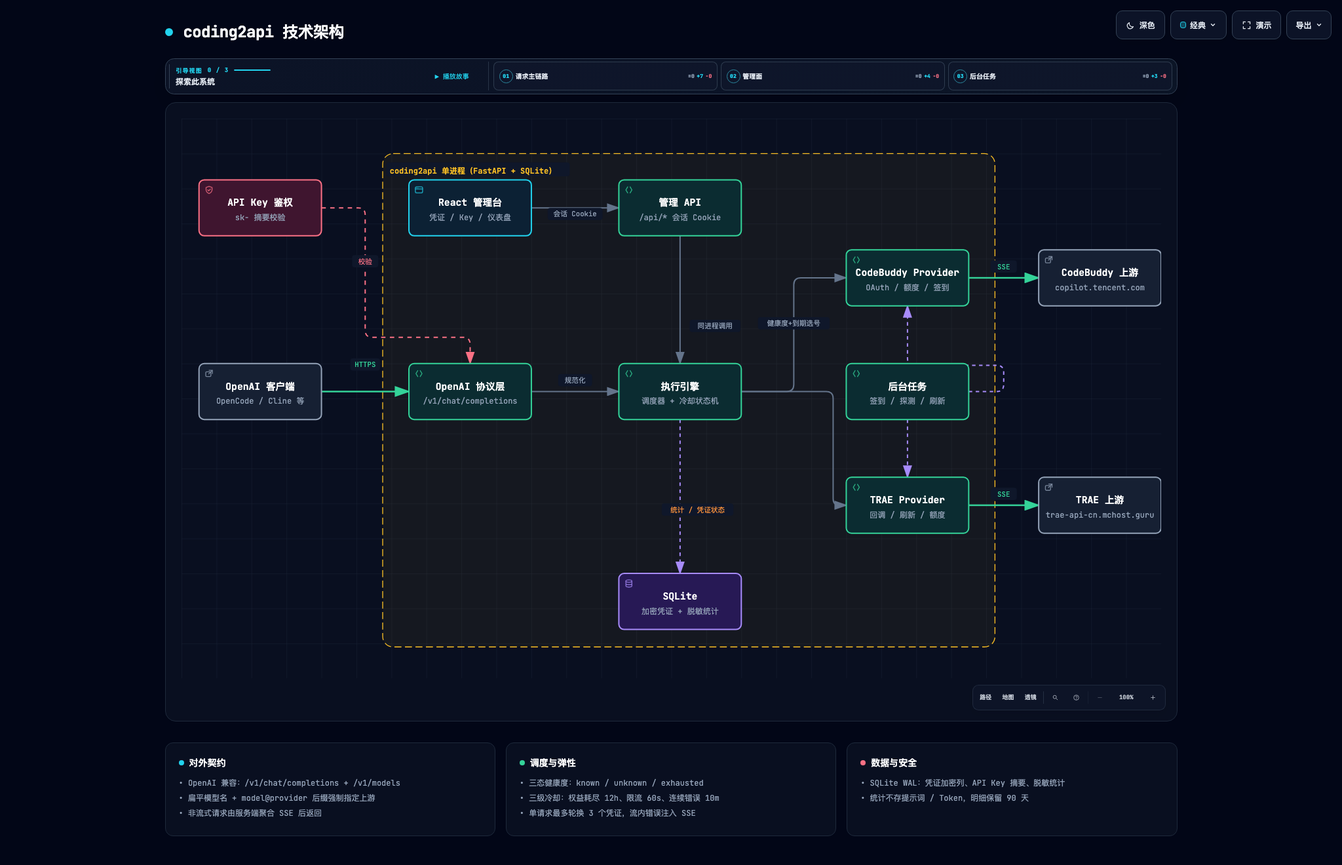
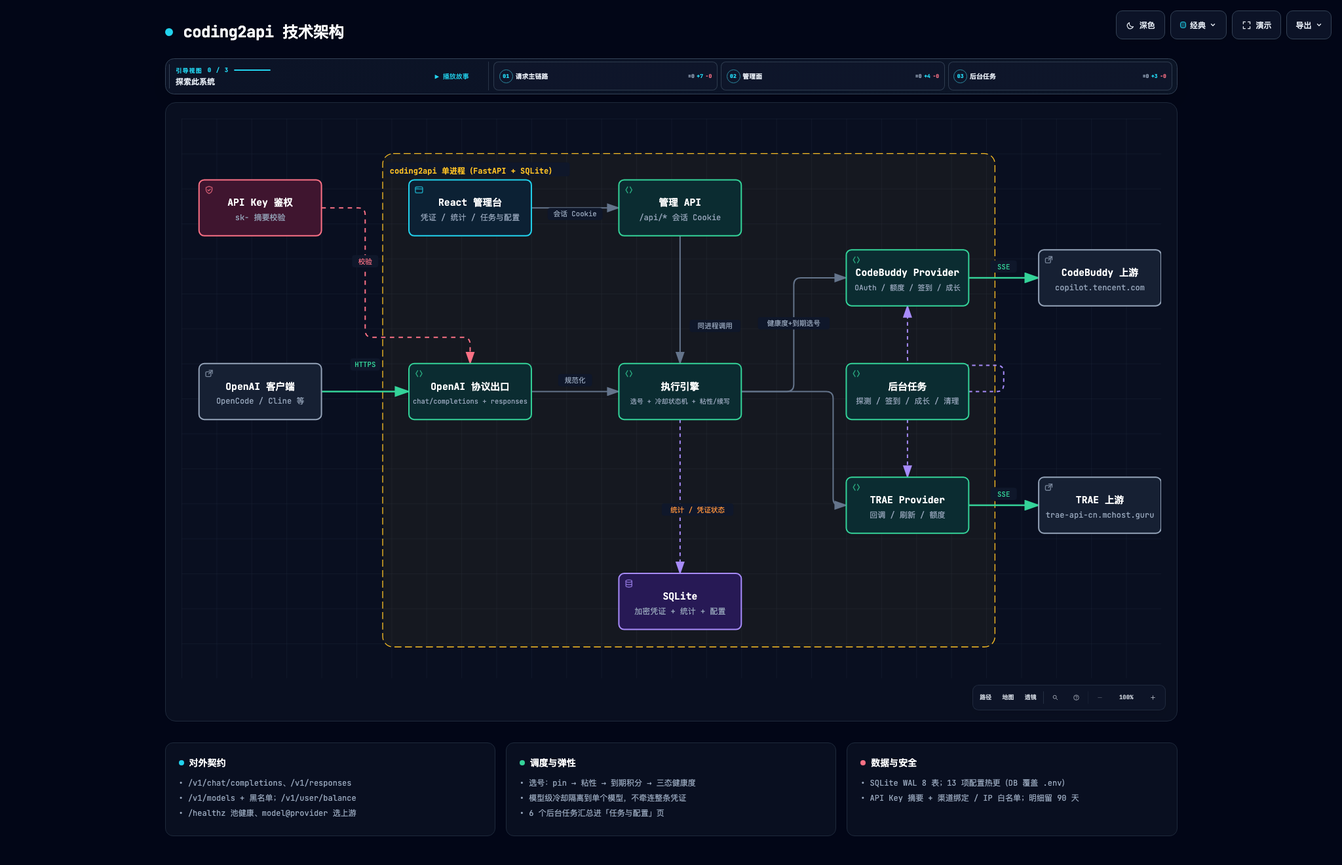
docs(diagram): 架构图重生成，补 B1–B4 能力（协议出口 / 调度 / 后台任务 / 表数量）
图停在 f6045c8（余额端点那次），之后 B1–B4 全部没进图，属实质漂移。
按实际代码重写 diagrams/architecture.json 后用 archify deliver 重出 HTML：

- 协议出口：`OpenAI 协议层 /v1/chat/completions` → `OpenAI 协议出口
  chat/completions + responses`（补 B2.1 Responses 出口）
- 执行引擎：`调度器 + 冷却状态机` → `选号 + 冷却状态机 + 粘性/续写`
  （补 B1.4 截断续写、B1.5 会话粘性）
- 后台任务：`签到 / 探测 / 刷新` → `探测 / 签到 / 成长 / 清理`
  （补成长中心与明细清理；活跃上报在视图说明里点名）
- CodeBuddy Provider 补「成长」；管理台副标 `凭证 / Key / 仪表盘` →
  `凭证 / 统计 / 任务与配置`（补 B3 统计与 B4 合并页）
- SQLite 副标补「配置」，tag `WAL` → `WAL · 8 表`（B3.2 起 8 张表）
- 后台任务引导视图说明补 6 类任务与运行态去向
- 复用原 3 张卡片（曾试 4 张，1440×900 视口因卡片换行溢出 12px，
  回退为 3 张并改写条目），卡片内容改为当前事实：Responses / balance /
  healthz 出口、pin→粘性→到期积分→三态健康度、模型级冷却隔离、
  6 任务汇总、8 表、13 项配置热更、渠道绑定 / IP 白名单

校验（archify 2.17）：validate 9/9 checks、composition pass（0 error 0 warning）；
deliver ok（spec sha256 f0…、artifact 814KB）；visual-check 1440×900 / 1600×1000 /
1920×1080 / 2048×1320 四个视口 scrollHeight == innerHeight，无溢出。
浅色与深色截图人工过目，无孤字换行、无重叠。

后端门槛：ruff + pytest 100%（1329 passed）。

diff --git a/diagrams/coding2api-architecture.html b/diagrams/coding2api-architecture.html
@@ -5085,7 +5085,7 @@ OTHER DEALINGS IN THE FONT SOFTWARE.
       </div>
     </div>
 
-    <script id="archify-guided-views-data" type="application/json">[{"id":"request-path","label":"请求主链路","focus":["clients","openai","engine","cb","trae","cb-up","trae-up"],"note":"客户端请求经协议层规范化，由执行引擎选号后流式转发到上游。"},{"id":"admin-plane","label":"管理面","focus":["admin-ui","admin-api","engine","db"],"note":"React 管理台经管理 API 同进程调用引擎，状态落 SQLite。"},{"id":"background","label":"后台任务","focus":["bg","cb","trae"],"note":"签到、额度探测与 token 预刷新经 provider 客户端触达上游。"}]</script>
+    <script id="archify-guided-views-data" type="application/json">[{"id":"request-path","label":"请求主链路","focus":["clients","openai","engine","cb","trae","cb-up","trae-up"],"note":"客户端请求经协议层规范化，由执行引擎选号后流式转发到上游。"},{"id":"admin-plane","label":"管理面","focus":["admin-ui","admin-api","engine","db"],"note":"React 管理台经管理 API 同进程调用引擎，状态落 SQLite。"},{"id":"background","label":"后台任务","focus":["bg","cb","trae"],"note":"签到、额度探测、token 预刷新、成长中心、活跃上报与明细清理经 provider 客户端触达上游，运行态汇总到「任务与配置」页。"}]</script>
 
     <script id="archify-i18n-data" type="application/json">{"locale":"zh-CN","messages":{"viewer.kind.frontend":"前端","viewer.kind.backend":"后端","viewer.kind.database":"数据库","viewer.kind.cloud":"云服务","viewer.kind.security":"安全","viewer.kind.messagebus":"消息总线","viewer.kind.external":"外部系统","viewer.kind.neutral":"中性","viewer.kind.node":"节点","viewer.kind.start":"开始","viewer.kind.active":"活动","viewer.kind.waiting":"等待","viewer.kind.decision":"决策","viewer.kind.success":"成功","viewer.kind.failure":"失败","viewer.toolbar.actions":"图表操作","viewer.theme.toggle.title":"切换主题（T）","viewer.theme.toggle":"切换颜色主题","viewer.theme.dark":"深色","viewer.theme.light":"浅色","viewer.preset.choose.title":"选择视觉风格（S 循环切换）","viewer.preset.choose":"选择视觉风格","viewer.preset.style":"风格","viewer.preset.menu":"视觉风格","viewer.preset.identity":"视觉表达","viewer.preset.cycles":"S 循环切换","viewer.preset.classic":"经典","viewer.preset.classic.short":"经典","viewer.preset.classic.hint":"稳定的技术默认风格","viewer.preset.flow":"信号流","viewer.preset.flow.short":"流动","viewer.preset.flow.hint":"突出动态流向","viewer.preset.blueprint":"蓝图","viewer.preset.blueprint.hint":"工程评审","viewer.preset.editorial":"编辑风格","viewer.preset.editorial.hint":"适合发布与上线说明","viewer.preset.badge.signalFlow":"信号流","viewer.preset.badge.blueprint":"蓝图 / 修订 01","viewer.preset.badge.editorial":"编辑风格 / 现场笔记","viewer.preset.badge.editorialPlate":"ARCHIFY / 图版 04","viewer.preset.current":"当前视觉风格：{style}。选择视觉风格","viewer.motion.live":"动态","viewer.motion.still":"静态","viewer.motion.pause":"暂停动效","viewer.motion.resume":"恢复动效","viewer.motion.reduced":"已根据减少动态效果偏好暂停动效","viewer.motion.hidden":"页面不可见时已暂停动效","viewer.motion.yielding":"暂停动效；当前让位于{owner}","viewer.motion.yielding.title":"动态预览已启用 · 正在让位于{owner}","viewer.owner.story":"引导故事","viewer.owner.chapter":"当前章节","viewer.owner.chapterPreview":"章节差异预览","viewer.owner.handoff":"章节交接","viewer.owner.route":"路径探测","viewer.owner.lens":"语义透镜","viewer.owner.relationship":"关系预览","viewer.owner.intent":"意图追踪","viewer.owner.focus":"语义聚焦","viewer.owner.legend":"图例预览","viewer.owner.reader":"读者交互","viewer.present.enter":"进入演示模式","viewer.present.enter.title":"演示模式（F）","viewer.present.exit":"退出演示模式","viewer.present.exit.title":"退出演示模式（F 或 Escape）","viewer.present.present":"演示","viewer.present.exit.label":"退出","viewer.export.button":"导出","viewer.export.button.title":"导出图表（E）","viewer.export.diagram":"导出图表","viewer.export.menu":"导出","viewer.export.subtitle":"便携、整洁的输出","viewer.export.share":"分享","viewer.export.shareCard":"分享卡片","viewer.export.routeShareCard":"路径分享卡片","viewer.export.reachShareCard":"可达范围分享卡片","viewer.export.copyShareCard":"复制分享卡片","viewer.export.copyDiagram":"复制图表","viewer.export.clipboardPng":"复制 PNG 到剪贴板","viewer.export.raster":"位图","viewer.export.image":"图像","viewer.export.lossless":"无损图像","viewer.export.compact":"紧凑图像","viewer.export.modern":"现代图像格式","viewer.export.vectorMotion":"矢量与动效","viewer.export.vectorMotion.heading":"矢量与动效","viewer.export.editable":"可编辑矢量图","viewer.export.motion6s":"6 秒动效","viewer.export.unsupported":"当前浏览器不支持","viewer.export.clipboardUnsupported":"当前浏览器不支持写入图片剪贴板","viewer.export.clipboardUnsupported.period":"当前浏览器不支持写入图片剪贴板。","viewer.export.clipboardUnsupported.short":"此浏览器不支持写入图片剪贴板。","viewer.export.motionUnavailable":"当前浏览器无法录制动效","viewer.export.webmUnavailable":"当前浏览器不支持 WebM","viewer.export.failed":"导出失败：{message}","viewer.export.unknownVariant":"未知的分享卡片类型：{variant}","viewer.export.routeRequired":"请先追踪路径，再导出路径分享卡片","viewer.export.reachRequired":"请先追踪编写可达范围，再导出可达范围分享卡片","viewer.export.unknown":"未知错误","viewer.export.routeFailed":"路径分享卡片导出失败：{message}","viewer.export.reachFailed":"可达范围分享卡片导出失败：{message}","viewer.export.copyFailed":"复制失败：{message}","viewer.export.copiedPng":"已将 PNG 复制到剪贴板","viewer.export.copiedShare":"已复制分享卡片","viewer.export.downloadedShare":"已下载分享卡片","viewer.export.downloadedRoute":"已下载路径分享卡片","viewer.export.downloadedReach":"已下载可达范围分享卡片","viewer.export.downloadedWebm":"已下载 WebM","viewer.export.recording":"正在录制 6 秒动效…","viewer.export.card.routeSummary.one":"路径：{source} → {target} · {count} 个有向跳转","viewer.export.card.routeSummary.other":"路径：{source} → {target} · {count} 个有向跳转","viewer.export.card.reachSummary":"从{origin}开始的编写{direction} · {nodes} · {links} · 最深 {hops}","viewer.export.card.node.one":"{count} 个节点","viewer.export.card.node.other":"{count} 个节点","viewer.export.card.link.one":"{count} 条连接","viewer.export.card.link.other":"{count} 条连接","viewer.export.card.hop.one":"{count} 跳","viewer.export.card.hop.other":"{count} 跳","viewer.export.card.routeBadge":"ARCHIFY · 路径 · {hops}","viewer.export.card.reachBadge":"ARCHIFY · {direction}可达范围","viewer.export.card.defaultBadge":"ARCHIFY · {preset} · {theme}","viewer.export.direction.upstream":"上游","viewer.export.direction.downstream":"下游","viewer.export.error.canvasUnavailable":"无法为{label}使用画布","viewer.export.error.contextUnavailable":"无法为{label}创建二维画布上下文","viewer.export.error.toBlobUnavailable":"{label}无法使用 canvas.toBlob","viewer.export.error.toBlobNull":"{label}的 canvas.toBlob 未返回数据","viewer.export.error.variantsCombined":"无法同时组合多种分享卡片类型","viewer.export.error.viewerState":"分享卡片导出无法移除临时 Viewer 状态","viewer.export.error.routeState":"路径卡片导出无法安全保留已解析路径","viewer.export.error.reachState":"可达范围卡片导出无法安全保留编写的可达范围","viewer.export.error.webmRequirements":"WebM 动效导出需要追踪动画及浏览器 MediaRecorder 支持","viewer.export.error.mediaRecorder":"MediaRecorder 录制失败","viewer.export.error.emptyWebm":"MediaRecorder 生成了空的 WebM","viewer.export.error.webmBackground":"无法为 WebM 导出加载 SVG 背景","viewer.guided.region":"图表引导视图","viewer.guided.previous":"上一个引导视图","viewer.guided.previous.title":"上一个引导视图（[）","viewer.guided.next":"下一个引导视图","viewer.guided.next.title":"下一个引导视图（]）","viewer.guided.views":"引导视图","viewer.guided.explore":"探索此系统","viewer.guided.intro":"沿精选路径逐步查看，而不改变源图表。","viewer.guided.trail":"故事轨迹","viewer.guided.beat":"节点","viewer.guided.nextBeat":"下一步","viewer.guided.play":"播放引导故事","viewer.guided.play.title":"播放引导故事（P）","viewer.guided.pause":"暂停引导故事","viewer.guided.pause.title":"暂停引导故事（P）","viewer.guided.replay":"重播引导故事","viewer.guided.replay.title":"重播引导故事（P）","viewer.guided.playStory":"播放故事","viewer.guided.pauseStory":"暂停","viewer.guided.replayStory":"重播故事","viewer.guided.motionUnavailable":"静态模式下无法播放故事","viewer.guided.enableMotion":"切换为动态模式以播放引导故事","viewer.guided.selectBeatLink":"选择故事节点以复制其精确链接","viewer.guided.copyMoment":"复制此刻","viewer.guided.momentCopied":"已复制时刻链接","viewer.guided.momentCopyFailed":"无法复制故事时刻链接","viewer.guided.copied":"已复制","viewer.guided.copyFailed":"复制失败","viewer.guided.showAll":"显示全部","viewer.guided.showAll.aria":"显示完整图表","viewer.guided.chapters":"故事章节","viewer.guided.storyTrail":"{label}的故事轨迹：{count} 个节点","viewer.guided.chapter.open":"打开第 {index}/{total} 章：{label}，{count} 个停靠点","viewer.guided.chapter.current":"当前第 {index}/{total} 章：{label}，{count} 个停靠点","viewer.guided.chapter.selectedNodes":"已选择 {count} 个节点","viewer.guided.chapter.stops":"{count} 个停靠点","viewer.guided.chapter.stop.one":"{count} 个停靠点","viewer.guided.chapter.stop.other":"{count} 个停靠点","viewer.guided.chapter.current.title":"{label} — 当前章节，{count} 个停靠点","viewer.guided.chapter.delta.expanded":"{stay} 个保留，{enter} 个进入，{leave} 个离开","viewer.guided.chapter.delta.aria":"打开第 {index}/{total} 章：{label}。章节聚焦差异：{delta}","viewer.guided.chapter.delta.title":"{label} — 章节聚焦 {delta}","viewer.guided.handoff":"{from} → {to} · 经由{label}","viewer.guided.share.chapter":"章节 {index} / {total}","viewer.guided.share.initial":"章节 01 / 01","viewer.guided.share.default":"引导章节","viewer.guided.state.ready":"就绪","viewer.guided.state.playing":"播放中","viewer.guided.state.settled":"已完成","viewer.guided.state.paused":"已暂停","viewer.guided.state.pinned":"已固定","viewer.guided.state.still":"静态","viewer.guided.share.step":"步骤 {index} / {total} · {label}","viewer.guided.share.staticMoment":"{step} · 静态时刻","viewer.guided.share.complete":"{count} 个步骤已完成 · {note}","viewer.guided.share.settled":"路径已稳定，可供阅读。","viewer.guided.share.staticPath":"{count} 个步骤 · 静态路径","viewer.guided.share.ready":"{count} 个步骤 · 就绪","viewer.guided.share.aria":"{state}，第 {index}/{total} 章：{label}。{beat}。{route}","viewer.guided.beat.start":"节点 {index} / {total} · {label} · 起点","viewer.guided.beat.forward":"节点 {index} / {total} · {from} → {to}","viewer.guided.beat.reverse":"节点 {index} / {total} · {from} → {to} · 反向编写连接","viewer.guided.beat.multiple":"节点 {index} / {total} · {from} ⇄ {to} · {count} 条编写连接","viewer.guided.beat.group":"节点 {index} / {total} · {from} · {to} · 分组 · 无直接连接","viewer.guided.beat.aria.prefix":"故事节点 {index}/{total}：{label}。","viewer.guided.beat.aria.start":"起点。","viewer.guided.beat.aria.forward":"从{from}经一条正向编写关系到达。","viewer.guided.beat.aria.reverse":"从{from}出发；编写关系实际由{to}指向{from}。","viewer.guided.beat.aria.multiple":"从{from}经 {count} 条编写关系到达；不使用任意动效。","viewer.guided.beat.aria.group":"与{from}分组展示，没有直接编写关系。","viewer.guided.caption.start":"起点","viewer.guided.caption.grouped":"分组过渡 · 无直接编写连接","viewer.guided.caption.more":" +另外 {count} 条","viewer.guided.caption.reverse":"反向编写关系","viewer.guided.caption.relationships":"{count} 条编写关系","viewer.guided.caption.relationship":"编写关系","viewer.guided.caption.direction":"编写方向：{from} → {to}","viewer.guided.caption.starting":"编写起点","viewer.guided.beatLink":"复制当前故事时刻链接：第 {index}/{total} 个节点：{label}","viewer.guided.noStory":"此图表没有编写引导故事。","viewer.guide.eyebrow":"图表指南","viewer.guide.close":"关闭图表指南","viewer.guide.inspecting":"正在检查已编译语义","viewer.guide.actions":"图表探索操作","viewer.guide.find":"查找任意节点","viewer.guide.find.hint":"搜索标签、职责、类型和稳定 ID。","viewer.guide.route":"追踪路径","viewer.guide.route.aria":"追踪有向路径","viewer.guide.route.hint":"查看两个语义节点如何按编写方向连接。","viewer.guide.map":"查看完整系统","viewer.guide.map.hint":"打开带实时视口和稳定节点的语义雷达。","viewer.guide.lens":"比较语义类型","viewer.guide.lens.hint":"统计角色、显示流量并比较直接编写的连接。","viewer.guide.story":"播放引导故事","viewer.guide.story.hint":"浏览已编写的章节和真实关系。","viewer.guide.present":"进入演示模式","viewer.guide.present.hint":"让实时图表占满视口，同时不改变导出。","viewer.guide.shortcuts":"其他键盘快捷键","viewer.guide.shortcut.export":"导出","viewer.guide.shortcut.theme":"主题","viewer.guide.shortcut.style":"风格","viewer.guide.shortcut.reset":"重置","viewer.guide.shortcut.zoomIn":"放大","viewer.guide.shortcut.zoomOut":"缩小","viewer.guide.shortcut.close":"关闭","viewer.guide.facts":"{nodes} · {relationships} · {views}","viewer.guide.fact.node.one":"{count} 个语义节点","viewer.guide.fact.node.other":"{count} 个语义节点","viewer.guide.fact.relationship.one":"{count} 条关系","viewer.guide.fact.relationship.other":"{count} 条关系","viewer.guide.fact.view.one":"{count} 个引导视图","viewer.guide.fact.view.other":"{count} 个引导视图","viewer.guide.story.available.one":"浏览 {count} 个已编写章节及其真实关系。","viewer.guide.story.available.other":"浏览 {count} 个已编写章节及其真实关系。","viewer.guide.story.unavailable":"此图表没有编写引导故事。","viewer.guide.open":"打开图表指南","viewer.guide.noStory":"此图表没有编写引导故事。","viewer.finder.title":"查找节点","viewer.finder.close":"关闭节点查找器","viewer.finder.placeholder":"搜索标签或 ID","viewer.finder.search":"搜索图表节点","viewer.finder.results":"图表节点","viewer.finder.empty":"没有匹配的节点","viewer.finder.result.focus":"聚焦{label}","viewer.finder.result.routeStart":"选择{label}作为路径起点","viewer.finder.result.routeTarget":"选择{label}作为路径终点，{links}","viewer.finder.status.empty":"没有匹配的节点","viewer.finder.status.count.one":"{count} 个匹配节点","viewer.finder.status.count.other":"{count} 个匹配节点","viewer.finder.noun.nodes":"个节点","viewer.finder.link.one":"{count} 条连接","viewer.finder.link.other":"{count} 条连接","viewer.finder.result.focus.one":"聚焦{label}，{count} 条相关连接","viewer.finder.result.focus.other":"聚焦{label}，{count} 条相关连接","viewer.finder.status.filtered":"{visible}/{available} {noun}","viewer.finder.status.all":"{available} {noun}","viewer.passport.eyebrow":"语义护照","viewer.passport.metadata":"节点元数据","viewer.passport.evidence":"已验证的源代码证据","viewer.passport.verified":"已验证来源","viewer.passport.verificationScope":"已按固定修订版本验证本地 Git 证据，未检查远程访问权限。","viewer.passport.reach":"编写可达范围","viewer.passport.reach.trace":"追踪编写的可达性","viewer.passport.upstream":"上游","viewer.passport.downstream":"下游","viewer.passport.upstream.trace":"追踪上游编写可达性","viewer.passport.downstream.trace":"追踪下游编写可达性","viewer.passport.close":"关闭语义护照","viewer.passport.copy":"复制链接","viewer.passport.copy.focus":"复制聚焦节点的链接","viewer.passport.relations":"关系","viewer.passport.relations.show":"显示关联关系","viewer.passport.relations.hide":"隐藏关联关系","viewer.passport.relations.list":"关联关系","viewer.passport.copyRelation":"复制关系","viewer.passport.copyNode":"复制节点","viewer.passport.copyPinned":"复制固定关系的链接","viewer.passport.copySource":"复制来源节点的链接","viewer.passport.copy.focused.success":"已复制聚焦节点链接","viewer.passport.copy.pinned.success":"已复制固定关系链接","viewer.passport.copy.focused.failed":"无法复制聚焦节点链接","viewer.passport.copy.pinned.failed":"无法复制固定关系链接","viewer.passport.relationship.none":"没有关联关系","viewer.passport.relationship.count.one":"{count} 条关系","viewer.passport.relationship.count.other":"{count} 条关系","viewer.passport.relationship.show.one":"显示 {count} 条关联关系","viewer.passport.relationship.show.other":"显示 {count} 条关联关系","viewer.passport.relationship.summary":"{out} 条出向 · {in} 条入向{loops}","viewer.passport.relationship.loops":" · {count} 条自环","viewer.passport.relationship.explorer":"直接关系浏览器","viewer.passport.relationship.help":"使用方向键浏览关系。按 Enter 或空格键固定详情；按 Escape 清除。","viewer.passport.relationship.loopsBack":"回环","viewer.passport.relationship.connectsTo":"连接到","viewer.passport.relationship.connectsFrom":"连接自","viewer.passport.relationship.pinned":"已固定关系 · {from} → {to} · {label}","viewer.passport.relationship.inspect":"检查第 {index}/{total} 条关系：{from} 到 {to}，{label}。按 Enter 查看详情。","viewer.passport.relationship.group.out":"出向","viewer.passport.relationship.group.in":"入向","viewer.passport.relationship.group.loop":"自环","viewer.passport.relationship.row":"{group}：{relationship}，{neighbor}","viewer.passport.relationship.direction.out":"出 →","viewer.passport.relationship.direction.in":"← 入","viewer.passport.relationship.direction.loop":"自环","viewer.passport.sourceCount.one":"{count} 个已验证来源引用","viewer.passport.sourceCount.other":"{count} 个已验证来源引用","viewer.passport.sourceMarker":"来源","viewer.passport.beacon.one":"{count} 个已验证来源；聚焦此节点以检查","viewer.passport.beacon.other":"{count} 个已验证来源；聚焦此节点以检查","viewer.passport.repository.open":"打开已验证的仓库修订版本 {revision}","viewer.passport.source.open":"打开修订版本 {revision} 中已验证的来源 {path}","viewer.passport.source.openLink":"打开 ↗","viewer.passport.reach.upstream.one":"追踪 {count} 个上游编写节点","viewer.passport.reach.upstream.other":"追踪 {count} 个上游编写节点","viewer.passport.reach.downstream.one":"追踪 {count} 个下游编写节点","viewer.passport.reach.downstream.other":"追踪 {count} 个下游编写节点","viewer.passport.reach.noUpstream":"没有上游编写节点","viewer.passport.reach.noDownstream":"没有下游编写节点","viewer.passport.reach.status":"{direction} · {nodes} 个节点 · {links} 条连接 · 最深 {hops} 跳","viewer.route.eyebrow":"路径探测","viewer.route.start":"选择起点节点","viewer.route.start.find":"查找起点","viewer.route.start.find.aria":"查找路径起点","viewer.route.copy":"复制链接","viewer.route.copy.aria":"复制已追踪路径的链接","viewer.route.clear":"清除","viewer.route.clear.aria":"清除路径探测","viewer.route.traced":"已追踪路径","viewer.route.pickTwo":"在图表中选择两个语义节点","viewer.route.pickOne":"在图表中选择一个语义节点","viewer.route.controls":"路径旅程控制","viewer.route.previous":"上一个路径位置","viewer.route.play":"播放路径旅程","viewer.route.pause":"暂停路径旅程","viewer.route.replay":"重播路径旅程","viewer.route.next":"下一个路径位置","viewer.route.journey":"旅程","viewer.route.pause.label":"暂停","viewer.route.replay.label":"重播","viewer.route.overview":"总览","viewer.route.overview.aria":"显示完整路径总览","viewer.route.instructions":"先选择来源，再选择目标；方向很重要。","viewer.route.destination":"选择从{label}出发的目标","viewer.route.destination.find":"查找目标","viewer.route.destination.find.aria":"查找可达的路径目标","viewer.route.differentDestination":"选择其他目标","viewer.route.distinct":"一条路径需要两个不同的语义节点。","viewer.route.unreachable":"没有通往{label}的有向路径","viewer.route.unreachable.detail":"从{source}无法到达{target}。请选择高亮的目标。","viewer.route.start.instructions":"选择来源。下一步只会显示有向可达的目标。","viewer.route.copy.success":"已复制路径链接","viewer.route.copy.failed":"无法复制路径链接","viewer.route.position":"路径位置 {index}/{total}：{label}","viewer.route.step":"第 {index}/{total} 步 · {phase} · {label}","viewer.route.motionRequired":"自动旅程需要动态模式","viewer.route.trigger.clear":"清除已追踪路径","viewer.route.overview.status":"{nodes} · {hops} · 最短编写路径","viewer.route.overview.node.one":"{count} 个节点","viewer.route.overview.node.other":"{count} 个节点","viewer.route.overview.hop.one":"{count} 个有向跳转","viewer.route.overview.hop.other":"{count} 个有向跳转","viewer.route.phase.playing":"播放中","viewer.route.phase.complete":"已完成","viewer.route.phase.inspecting":"检查中","viewer.route.destination.count.one":"有 {count} 个有向目标可用。请选择高亮节点。","viewer.route.destination.count.other":"有 {count} 个有向目标可用。请选择高亮节点。","viewer.route.noOutgoing":"此处没有可用的出向路径。请清除后选择其他来源。","viewer.route.result.title":"{source} 到 {target}","viewer.route.finder.source.title":"选择路径起点","viewer.route.finder.source.placeholder":"搜索路径来源","viewer.route.finder.source.empty":"没有匹配的路径来源","viewer.route.finder.source.results":"可作为路径起点的节点","viewer.route.finder.source.noun":"个路径来源","viewer.route.finder.source.badge":"起点","viewer.route.finder.target.title":"从{label}出发的目标","viewer.route.finder.target.placeholder":"搜索可达目标","viewer.route.finder.target.empty":"没有匹配的可达目标","viewer.route.finder.target.results":"可达路径目标","viewer.route.finder.target.noun":"个可达目标","viewer.route.hop.one":"{count} 跳","viewer.route.hop.other":"{count} 跳","viewer.lens.eyebrow":"语义透镜","viewer.lens.title":"比较系统角色","viewer.lens.close":"关闭语义透镜","viewer.lens.instruction":"最多选择两种语义类型。选择一种可显示其真实流量；选择两种只比较直接编写的关系。","viewer.lens.kinds":"语义类型","viewer.lens.choose":"选择一种类型以检查其节点和相连关系。","viewer.lens.copy":"复制语义透镜链接","viewer.lens.clear":"清除语义透镜","viewer.lens.open":"打开语义透镜","viewer.lens.openActive":"打开当前语义透镜","viewer.lens.legend":"语义图例","viewer.lens.legend.inspect.one":"检查{label}，{count} 个节点","viewer.lens.legend.inspect.other":"检查{label}，{count} 个节点","viewer.lens.kind.count.one":"{label}，{count} 个节点","viewer.lens.kind.count.other":"{label}，{count} 个节点","viewer.lens.compare.one":"{first} → {second}：{forward} · {second} → {first}：{reverse} · 共 {count} 条直接关系","viewer.lens.compare.other":"{first} → {second}：{forward} · {second} → {first}：{reverse} · 共 {count} 条直接关系","viewer.lens.single":"{nodes} · {relationships} · 已连接节点保持可见","viewer.lens.node.one":"{count} 个{label}节点","viewer.lens.node.other":"{count} 个{label}节点","viewer.lens.relationship.one":"{count} 条相连关系","viewer.lens.relationship.other":"{count} 条相连关系","viewer.radar.title":"语义雷达","viewer.radar.building":"正在构建总览","viewer.radar.openFull":"打开完整语义雷达","viewer.radar.open":"打开雷达","viewer.radar.close":"关闭语义雷达","viewer.radar.surface":"图表总览。点击节点进行聚焦，或使用方向键平移。","viewer.radar.click":"点击节点","viewer.radar.drag":"拖动平移","viewer.radar.space":"语义雷达需要更多地图可见空间。","viewer.radar.nodes":"语义图表雷达节点","viewer.radar.focus":"从语义雷达聚焦{label}","viewer.radar.status":"{count} 个节点 · {viewport}","viewer.radar.fullMap":"{count} 个节点 · 完整地图","viewer.radar.compacted":"已收紧雷达，避免遮挡语义护照或地图控件。","viewer.radar.cancelWaiting":"取消等待更多地图空间的语义雷达","viewer.radar.needsSpace":"语义雷达需要更多可见地图空间","viewer.radar.viewport.full":"完整地图","viewer.radar.viewport.width":"宽度 {percent}%","viewer.radar.viewport.scale":"视口 {percent}%","viewer.nav.controls":"图表视图控制","viewer.nav.route":"追踪有向路径","viewer.nav.route.title":"追踪路径（R）","viewer.nav.route.short":"路径","viewer.nav.radar":"打开语义雷达","viewer.nav.radar.title":"语义雷达（M）","viewer.nav.radar.short":"地图","viewer.nav.lens":"打开语义透镜","viewer.nav.lens.title":"语义透镜（L）","viewer.nav.lens.short":"透镜","viewer.nav.find":"查找节点","viewer.nav.find.title":"查找节点（/）","viewer.nav.guide":"打开图表指南","viewer.nav.guide.title":"图表指南（?）","viewer.nav.zoomOut":"缩小","viewer.nav.zoomOut.title":"缩小（-）","viewer.nav.reset":"重置图表视图","viewer.nav.reset.title":"重置视图（0）","viewer.nav.read":"阅读","viewer.nav.zoomIn":"放大","viewer.nav.zoomIn.title":"放大（+）","viewer.nav.camera":"{hint}。重置图表视图","viewer.nav.camera.title":"{semantic}{hint} · 重置视图（0）","viewer.nav.camera.semantic":"语义相机已启用 · ","viewer.nav.level.map":"概览","viewer.nav.level.read":"阅读","viewer.nav.level.full":"完整","viewer.nav.level.auto":"自动","viewer.nav.detail.map":"放大以显示关系标签和节点上下文","viewer.nav.detail.read":"再次放大以显示标签和注释","viewer.nav.detail.full":"完整图表详情","viewer.intent.summary":"{label}。{out} 条出向，{in} 条入向{loops}。共 {total} 条连接。按 Enter 查看详情。","viewer.intent.loops":"，{count} 条自环","viewer.common.copied":"已复制","viewer.common.copyFailed":"复制失败","viewer.common.copyLink":"复制链接","viewer.common.clear":"清除","viewer.common.close":"关闭"}}</script>
     <div class="guided-views no-print" id="guided-views" hidden aria-label="图表引导视图">
@@ -5186,8 +5186,8 @@ OTHER DEALINGS IN THE FONT SOFTWARE.
         <text data-detail="fine" x="90" y="126" class="t-security" font-size="7" text-anchor="middle">sk-</text>
         </g>
 
-        <g id="node-admin-ui" data-node-id="admin-ui" data-node-label="React 管理台" tabindex="0" role="button" aria-label="聚焦React 管理台，凭证 / Key / 仪表盘, coding2api 单进程（FastAPI + SQLite）" aria-pressed="false" data-node-kind="frontend" data-node-sublabel="凭证 / Key / 仪表盘" data-node-context="coding2api 单进程（FastAPI + SQLite）">
-          <title>React 管理台 · 凭证 / Key / 仪表盘 · coding2api 单进程（FastAPI + SQLite）</title>
+        <g id="node-admin-ui" data-node-id="admin-ui" data-node-label="React 管理台" tabindex="0" role="button" aria-label="聚焦React 管理台，凭证 / 统计 / 任务与配置, coding2api 单进程（FastAPI + SQLite）" aria-pressed="false" data-node-kind="frontend" data-node-sublabel="凭证 / 统计 / 任务与配置" data-node-context="coding2api 单进程（FastAPI + SQLite）">
+          <title>React 管理台 · 凭证 / 统计 / 任务与配置 · coding2api 单进程（FastAPI + SQLite）</title>
           <rect x="260" y="70" width="140" height="64" rx="6" class="c-mask"/>
           <rect x="260" y="70" width="140" height="64" rx="6" class="c-frontend" stroke-width="1.5"/>
           <g aria-hidden="true" data-semantic-sigil="frontend" class="semantic-sigil s-frontend" transform="translate(266 76) scale(0.6875)">
@@ -5197,7 +5197,7 @@ OTHER DEALINGS IN THE FONT SOFTWARE.
             <circle cx="6.3" cy="4.8" r=".7" class="sigil-fill"/>
           </g>
           <text data-node-label="" data-detail-anchor="" x="330" y="100" class="t-primary" font-size="11" font-weight="600" text-anchor="middle">React 管理台</text>
-        <text data-detail="context" x="330" y="116" class="t-muted" font-size="9" text-anchor="middle">凭证 / Key / 仪表盘</text>
+        <text data-detail="context" x="330" y="116" class="t-muted" font-size="9" text-anchor="middle">凭证 / 统计 / 任务与配置</text>
         </g>
 
         <g id="node-admin-api" data-node-id="admin-api" data-node-label="管理 API" tabindex="0" role="button" aria-label="聚焦管理 API，/api/* 会话 Cookie, coding2api 单进程（FastAPI + SQLite）" aria-pressed="false" data-node-kind="backend" data-node-sublabel="/api/* 会话 Cookie" data-node-context="coding2api 单进程（FastAPI + SQLite）">
@@ -5223,50 +5223,50 @@ OTHER DEALINGS IN THE FONT SOFTWARE.
         <text data-detail="context" x="90" y="326" class="t-muted" font-size="9" text-anchor="middle">OpenCode / Cline 等</text>
         </g>
 
-        <g id="node-openai" data-node-id="openai" data-node-label="OpenAI 协议层" tabindex="0" role="button" aria-label="聚焦OpenAI 协议层，/v1/chat/completions, coding2api 单进程（FastAPI + SQLite）" aria-pressed="false" data-node-kind="backend" data-node-sublabel="/v1/chat/completions" data-node-tag="FastAPI" data-node-context="coding2api 单进程（FastAPI + SQLite）">
-          <title>OpenAI 协议层 · /v1/chat/completions · coding2api 单进程（FastAPI + SQLite） · FastAPI</title>
+        <g id="node-openai" data-node-id="openai" data-node-label="OpenAI 协议出口" tabindex="0" role="button" aria-label="聚焦OpenAI 协议出口，chat/completions + responses, coding2api 单进程（FastAPI + SQLite）" aria-pressed="false" data-node-kind="backend" data-node-sublabel="chat/completions + responses" data-node-tag="FastAPI" data-node-context="coding2api 单进程（FastAPI + SQLite）">
+          <title>OpenAI 协议出口 · chat/completions + responses · coding2api 单进程（FastAPI + SQLite） · FastAPI</title>
           <rect x="260" y="280" width="140" height="64" rx="6" class="c-mask"/>
           <rect x="260" y="280" width="140" height="64" rx="6" class="c-backend" stroke-width="1.5"/>
           <g aria-hidden="true" data-semantic-sigil="backend" class="semantic-sigil s-backend" transform="translate(266 286) scale(0.6875)">
             <path d="M6 3 3 8l3 5M10 3l3 5-3 5"/>
           </g>
-          <text data-node-label="" data-detail-anchor="" x="330" y="310" class="t-primary" font-size="11" font-weight="600" text-anchor="middle">OpenAI 协议层</text>
-        <text data-detail="context" x="330" y="326" class="t-muted" font-size="9" text-anchor="middle">/v1/chat/completions</text>
+          <text data-node-label="" data-detail-anchor="" x="330" y="310" class="t-primary" font-size="11" font-weight="600" text-anchor="middle">OpenAI 协议出口</text>
+        <text data-detail="context" x="330" y="326" class="t-muted" font-size="7.8" text-anchor="middle">chat/completions + responses</text>
         <text data-detail="fine" x="330" y="336" class="t-backend" font-size="7" text-anchor="middle">FastAPI</text>
         </g>
 
-        <g id="node-engine" data-node-id="engine" data-node-label="执行引擎" tabindex="0" role="button" aria-label="聚焦执行引擎，调度器 + 冷却状态机, coding2api 单进程（FastAPI + SQLite）" aria-pressed="false" data-node-kind="backend" data-node-sublabel="调度器 + 冷却状态机" data-node-tag="三态健康度" data-node-context="coding2api 单进程（FastAPI + SQLite）">
-          <title>执行引擎 · 调度器 + 冷却状态机 · coding2api 单进程（FastAPI + SQLite） · 三态健康度</title>
+        <g id="node-engine" data-node-id="engine" data-node-label="执行引擎" tabindex="0" role="button" aria-label="聚焦执行引擎，选号 + 冷却状态机 + 粘性/续写, coding2api 单进程（FastAPI + SQLite）" aria-pressed="false" data-node-kind="backend" data-node-sublabel="选号 + 冷却状态机 + 粘性/续写" data-node-tag="三态健康度" data-node-context="coding2api 单进程（FastAPI + SQLite）">
+          <title>执行引擎 · 选号 + 冷却状态机 + 粘性/续写 · coding2api 单进程（FastAPI + SQLite） · 三态健康度</title>
           <rect x="500" y="280" width="140" height="64" rx="6" class="c-mask"/>
           <rect x="500" y="280" width="140" height="64" rx="6" class="c-backend" stroke-width="1.5"/>
           <g aria-hidden="true" data-semantic-sigil="backend" class="semantic-sigil s-backend" transform="translate(506 286) scale(0.6875)">
             <path d="M6 3 3 8l3 5M10 3l3 5-3 5"/>
           </g>
           <text data-node-label="" data-detail-anchor="" x="570" y="310" class="t-primary" font-size="11" font-weight="600" text-anchor="middle">执行引擎</text>
-        <text data-detail="context" x="570" y="326" class="t-muted" font-size="9" text-anchor="middle">调度器 + 冷却状态机</text>
+        <text data-detail="context" x="570" y="326" class="t-muted" font-size="7.5" text-anchor="middle">选号 + 冷却状态机 + 粘性/续写</text>
         <text data-detail="fine" x="570" y="336" class="t-backend" font-size="7" text-anchor="middle">三态健康度</text>
         </g>
 
-        <g id="node-cb" data-node-id="cb" data-node-label="CodeBuddy Provider" tabindex="0" role="button" aria-label="聚焦CodeBuddy Provider，OAuth / 额度 / 签到, coding2api 单进程（FastAPI + SQLite）" aria-pressed="false" data-node-kind="backend" data-node-sublabel="OAuth / 额度 / 签到" data-node-context="coding2api 单进程（FastAPI + SQLite）">
-          <title>CodeBuddy Provider · OAuth / 额度 / 签到 · coding2api 单进程（FastAPI + SQLite）</title>
+        <g id="node-cb" data-node-id="cb" data-node-label="CodeBuddy Provider" tabindex="0" role="button" aria-label="聚焦CodeBuddy Provider，OAuth / 额度 / 签到 / 成长, coding2api 单进程（FastAPI + SQLite）" aria-pressed="false" data-node-kind="backend" data-node-sublabel="OAuth / 额度 / 签到 / 成长" data-node-context="coding2api 单进程（FastAPI + SQLite）">
+          <title>CodeBuddy Provider · OAuth / 额度 / 签到 / 成长 · coding2api 单进程（FastAPI + SQLite）</title>
           <rect x="760" y="150" width="140" height="64" rx="6" class="c-mask"/>
           <rect x="760" y="150" width="140" height="64" rx="6" class="c-backend" stroke-width="1.5"/>
           <g aria-hidden="true" data-semantic-sigil="backend" class="semantic-sigil s-backend" transform="translate(766 156) scale(0.6875)">
             <path d="M6 3 3 8l3 5M10 3l3 5-3 5"/>
           </g>
           <text data-node-label="" data-detail-anchor="" x="830" y="180" class="t-primary" font-size="11" font-weight="600" text-anchor="middle">CodeBuddy Provider</text>
-        <text data-detail="context" x="830" y="196" class="t-muted" font-size="9" text-anchor="middle">OAuth / 额度 / 签到</text>
+        <text data-detail="context" x="830" y="196" class="t-muted" font-size="8.4" text-anchor="middle">OAuth / 额度 / 签到 / 成长</text>
         </g>
 
-        <g id="node-bg" data-node-id="bg" data-node-label="后台任务" tabindex="0" role="button" aria-label="聚焦后台任务，签到 / 探测 / 刷新, coding2api 单进程（FastAPI + SQLite）" aria-pressed="false" data-node-kind="backend" data-node-sublabel="签到 / 探测 / 刷新" data-node-tag="节流器" data-node-context="coding2api 单进程（FastAPI + SQLite）">
-          <title>后台任务 · 签到 / 探测 / 刷新 · coding2api 单进程（FastAPI + SQLite） · 节流器</title>
+        <g id="node-bg" data-node-id="bg" data-node-label="后台任务" tabindex="0" role="button" aria-label="聚焦后台任务，探测 / 签到 / 成长 / 清理, coding2api 单进程（FastAPI + SQLite）" aria-pressed="false" data-node-kind="backend" data-node-sublabel="探测 / 签到 / 成长 / 清理" data-node-tag="节流器" data-node-context="coding2api 单进程（FastAPI + SQLite）">
+          <title>后台任务 · 探测 / 签到 / 成长 / 清理 · coding2api 单进程（FastAPI + SQLite） · 节流器</title>
           <rect x="760" y="280" width="140" height="64" rx="6" class="c-mask"/>
           <rect x="760" y="280" width="140" height="64" rx="6" class="c-backend" stroke-width="1.5"/>
           <g aria-hidden="true" data-semantic-sigil="backend" class="semantic-sigil s-backend" transform="translate(766 286) scale(0.6875)">
             <path d="M6 3 3 8l3 5M10 3l3 5-3 5"/>
           </g>
           <text data-node-label="" data-detail-anchor="" x="830" y="310" class="t-primary" font-size="11" font-weight="600" text-anchor="middle">后台任务</text>
-        <text data-detail="context" x="830" y="326" class="t-muted" font-size="9" text-anchor="middle">签到 / 探测 / 刷新</text>
+        <text data-detail="context" x="830" y="326" class="t-muted" font-size="8.8" text-anchor="middle">探测 / 签到 / 成长 / 清理</text>
         <text data-detail="fine" x="830" y="336" class="t-backend" font-size="7" text-anchor="middle">节流器</text>
         </g>
 
@@ -5305,8 +5305,8 @@ OTHER DEALINGS IN THE FONT SOFTWARE.
         <text data-detail="context" x="1050" y="456" class="t-muted" font-size="9" text-anchor="middle">trae-api-cn.mchost.guru</text>
         </g>
 
-        <g id="node-db" data-node-id="db" data-node-label="SQLite" tabindex="0" role="button" aria-label="聚焦SQLite，加密凭证 + 脱敏统计, coding2api 单进程（FastAPI + SQLite）" aria-pressed="false" data-node-kind="database" data-node-sublabel="加密凭证 + 脱敏统计" data-node-tag="WAL" data-node-context="coding2api 单进程（FastAPI + SQLite）">
-          <title>SQLite · 加密凭证 + 脱敏统计 · coding2api 单进程（FastAPI + SQLite） · WAL</title>
+        <g id="node-db" data-node-id="db" data-node-label="SQLite" tabindex="0" role="button" aria-label="聚焦SQLite，加密凭证 + 统计 + 配置, coding2api 单进程（FastAPI + SQLite）" aria-pressed="false" data-node-kind="database" data-node-sublabel="加密凭证 + 统计 + 配置" data-node-tag="WAL · 8 表" data-node-context="coding2api 单进程（FastAPI + SQLite）">
+          <title>SQLite · 加密凭证 + 统计 + 配置 · coding2api 单进程（FastAPI + SQLite） · WAL · 8 表</title>
           <rect x="500" y="520" width="140" height="64" rx="6" class="c-mask"/>
           <rect x="500" y="520" width="140" height="64" rx="6" class="c-database" stroke-width="1.5"/>
           <g aria-hidden="true" data-semantic-sigil="database" class="semantic-sigil s-database" transform="translate(506 526) scale(0.6875)">
@@ -5314,8 +5314,8 @@ OTHER DEALINGS IN THE FONT SOFTWARE.
             <path d="M3 4v8c0 1.1 2.2 2 5 2s5-.9 5-2V4M3 8c0 1.1 2.2 2 5 2s5-.9 5-2"/>
           </g>
           <text data-node-label="" data-detail-anchor="" x="570" y="550" class="t-primary" font-size="11" font-weight="600" text-anchor="middle">SQLite</text>
-        <text data-detail="context" x="570" y="566" class="t-muted" font-size="9" text-anchor="middle">加密凭证 + 脱敏统计</text>
-        <text data-detail="fine" x="570" y="576" class="t-database" font-size="7" text-anchor="middle">WAL</text>
+        <text data-detail="context" x="570" y="566" class="t-muted" font-size="9" text-anchor="middle">加密凭证 + 统计 + 配置</text>
+        <text data-detail="fine" x="570" y="576" class="t-database" font-size="7" text-anchor="middle">WAL · 8 表</text>
         </g>
 
         <!-- Connection labels -->
@@ -5559,9 +5559,9 @@ OTHER DEALINGS IN THE FONT SOFTWARE.
           <h3>对外契约</h3>
         </div>
         <ul>
-          <li>&bull; OpenAI 兼容：/v1/chat/completions + /v1/models</li>
-          <li>&bull; 扁平模型名 + model@provider 后缀强制指定上游</li>
-          <li>&bull; 非流式请求由服务端聚合 SSE 后返回</li>
+          <li>&bull; /v1/chat/completions、/v1/responses</li>
+          <li>&bull; /v1/models + 黑名单；/v1/user/balance</li>
+          <li>&bull; /healthz 池健康、model@provider 选上游</li>
         </ul>
       </div>
 
@@ -5571,9 +5571,9 @@ OTHER DEALINGS IN THE FONT SOFTWARE.
           <h3>调度与弹性</h3>
         </div>
         <ul>
-          <li>&bull; 三态健康度：known / unknown / exhausted</li>
-          <li>&bull; 三级冷却：权益耗尽 12h、限流 60s、连续错误 10m</li>
-          <li>&bull; 单请求最多轮换 3 个凭证，流内错误注入 SSE</li>
+          <li>&bull; 选号：pin → 粘性 → 到期积分 → 三态健康度</li>
+          <li>&bull; 模型级冷却隔离到单个模型，不牵连整条凭证</li>
+          <li>&bull; 6 个后台任务汇总进「任务与配置」页</li>
         </ul>
       </div>
 
@@ -5583,8 +5583,8 @@ OTHER DEALINGS IN THE FONT SOFTWARE.
           <h3>数据与安全</h3>
         </div>
         <ul>
-          <li>&bull; SQLite WAL：凭证加密列、API Key 摘要、脱敏统计</li>
-          <li>&bull; 统计不存提示词 / Token，明细保留 90 天</li>
+          <li>&bull; SQLite WAL 8 表；13 项配置热更（DB 覆盖 .env）</li>
+          <li>&bull; API Key 摘要 + 渠道绑定 / IP 白名单；明细留 90 天</li>
         </ul>
       </div>
     </div>
